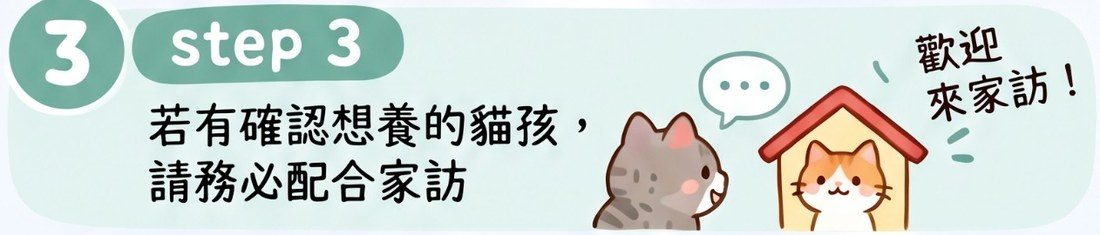
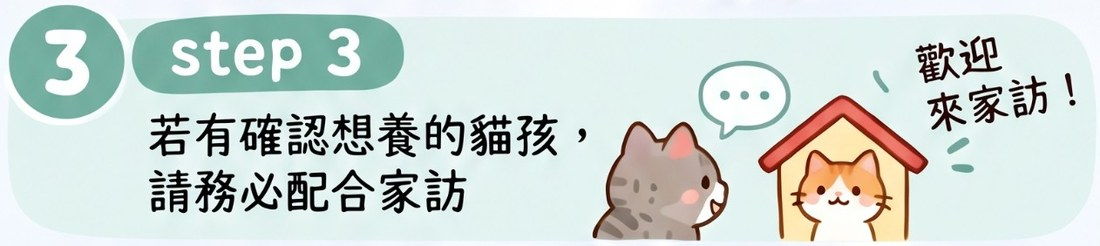
切圖改為自動量測圓圈突出幅度
數字圓圈刻意畫得比卡片高、突出到卡片外，各條突出 6~16px 不等，
照卡片邊界切會削到圓圈的頭。

新增 tools/切設計稿.py：右側掃描找間隙取得大致範圍，再從左側
量出內容實際延伸到哪裡，自動決定留邊。並限制不可越過上一條的
底部，且不往下找（圓圈只突出上緣）。

diff --git a/adopt.html b/adopt.html
@@ -64,11 +64,11 @@
     <!-- 五個步驟用設計稿的原圖。圖裡的文字搜尋引擎讀不到，所以寫進 alt。
          要改文字就得重做圖，設計稿原檔在「設計稿/認養流程_設計稿_v2.jpg」。 -->
     <ol class="flow">
-      <li><img src="images/step-1.jpg?v=3d167d55" alt="step 1：私訊粉專，填寫諮詢表，讓我們簡單認識你" width="1100" height="207"></li>
-      <li><img src="images/step-2.jpg?v=cc1233d3" alt="step 2：確認收到粉專回覆後，方可預約賞貓時間" width="1100" height="222" loading="lazy"></li>
-      <li><img src="images/step-3.jpg?v=11edbe35" alt="step 3：若有確認想養的貓孩，請務必配合家訪" width="1100" height="235" loading="lazy"></li>
-      <li><img src="images/step-4.jpg?v=52ea1491" alt="step 4：確認認養環境無虞後，預約帶回貓孩的時間" width="1100" height="202" loading="lazy"></li>
-      <li><img src="images/step-5.jpg?v=ad0eb322" alt="step 5：帶貓當天請攜帶身份證並加入認養夥伴群組" width="1100" height="207" loading="lazy"></li>
+      <li><img src="images/step-1.jpg?v=eeb34be9" alt="step 1：私訊粉專，填寫諮詢表，讓我們簡單認識你" width="1100" height="218"></li>
+      <li><img src="images/step-2.jpg?v=932da8f2" alt="step 2：確認收到粉專回覆後，方可預約賞貓時間" width="1100" height="236" loading="lazy"></li>
+      <li><img src="images/step-3.jpg?v=3b18b026" alt="step 3：若有確認想養的貓孩，請務必配合家訪" width="1100" height="246" loading="lazy"></li>
+      <li><img src="images/step-4.jpg?v=cd7ef381" alt="step 4：確認認養環境無虞後，預約帶回貓孩的時間" width="1100" height="211" loading="lazy"></li>
+      <li><img src="images/step-5.jpg?v=f8b22834" alt="step 5：帶貓當天請攜帶身份證並加入認養夥伴群組" width="1100" height="208" loading="lazy"></li>
     </ol>
 
     <p class="flow-foot"><span aria-hidden="true">🐾</span> 每一隻貓咪，都值得被愛 <span aria-hidden="true">🐾</span></p>

diff --git a/tools/切設計稿.py b/tools/切設計稿.py
@@ -1,0 +1,127 @@
+# -*- coding: utf-8 -*-
+"""
+把長條設計稿自動切成一條一條的橫幅。
+
+為什麼不能直接「找空白橫線來切」：
+    設計稿的數字圓圈、標題膠囊，是刻意畫得比卡片高、突出到卡片外的。
+    照卡片邊界切，圓圈的頭就會被削掉；
+    固定多留一點又不知道該留多少——每一條突出的幅度還不一樣
+    （這張圖是 6 到 16 像素不等）。
+
+這支工具分兩步，所以不用猜：
+    1. 先在圖片右側掃描找出卡片之間的「間隙」，得到每條的大致範圍。
+       右側只有底色和手寫小字，最乾淨，不會被突出的圓圈干擾。
+    2. 再從左側（數字圓圈那一區）往上下找，看這一條的內容實際延伸到哪裡，
+       自動決定要留多少邊。
+
+    換一張設計稿也能直接用，不必重新調參數。
+
+怎麼跑（在專案資料夾開終端機）：
+    python tools/切設計稿.py "設計稿/認養流程_設計稿_v3.jpg" step
+
+    第一個參數：設計稿檔案
+    第二個參數：輸出檔名開頭（會產生 step-1.jpg、step-2.jpg… 放進 images/）
+    第三個參數（可省略）：要跳過開頭幾條。
+        長圖最上面通常是標題區，不是步驟，填 1 就會跳過它。
+
+跑完記得接著跑：
+    python tools/更新版本號.py
+"""
+import os
+import sys
+
+ROOT = os.path.dirname(os.path.dirname(os.path.abspath(__file__)))
+OUT_DIR = os.path.join(ROOT, "images")
+
+MIN_BAND_HEIGHT = 150     # 一條橫幅至少這麼高
+MIN_GAP_ROWS = 15         # 間隙至少這麼寬；更窄的是壓縮雜訊，不算
+OUT_WIDTH = 1100          # 輸出寬度
+
+
+def main(src, prefix, skip=0):
+    import numpy as np
+    from PIL import Image
+
+    im = Image.open(src).convert("RGB")
+    arr = np.asarray(im).astype(np.int16)
+    H, W = arr.shape[:2]
+
+    # 背景色要逐列算：設計稿底色常是漸層（上面偏白、下面偏藍），
+    # 用單一個背景色去比，中段的背景會被誤判成「有東西」。
+    # 左右邊緣一定是背景，拿那裡的中位數當這一列的背景色。
+    edge = np.concatenate([arr[:, 4:26], arr[:, W - 26:W - 4]], axis=1)
+    bg_rows = np.median(edge, axis=1)
+    diff = np.abs(arr - bg_rows[:, None, :]).sum(axis=2)
+    has_ink = diff > 20
+
+    # ---- 第一步：右側找間隙，得到大致範圍 ----
+    probe = has_ink[:, int(W * 0.86):int(W * 0.90)].sum(axis=1)
+    blank = probe < 1
+
+    gaps = []
+    y = 0
+    while y < H:
+        if blank[y]:
+            a = y
+            while y < H and blank[y]:
+                y += 1
+            if y - a >= MIN_GAP_ROWS:
+                gaps.append((a, y))
+        else:
+            y += 1
+
+    rough = [(gaps[i][1], gaps[i + 1][0]) for i in range(len(gaps) - 1)]
+    rough = [b for b in rough if b[1] - b[0] >= MIN_BAND_HEIGHT]
+    if not rough:
+        print("找不到橫幅，可能這張圖的版面不同，需要調整參數")
+        return
+    print("在右側找到 %d 條（大致範圍）" % len(rough))
+    if skip:
+        print("依指定跳過前 %d 條（通常是標題區，不是步驟）" % skip)
+        rough = rough[skip:]
+
+    # ---- 第二步：左側量出真正的上下界 ----
+    left = has_ink[:, int(W * 0.04):int(W * 0.22)].sum(axis=1)
+
+    bands = []
+    for idx, (top, bot) in enumerate(rough):
+        # 往上找時不可以越過上一條的底部，否則會帶到它的圓角
+        ceiling = rough[idx - 1][1] + 2 if idx > 0 else 0
+        t = top
+        while t > ceiling and t > top - 60:
+            if left[max(t - 2, 0):t + 2].sum() == 0:
+                break
+            t -= 1
+        # 下緣不用找：圓圈只突出卡片的上緣，往下找會吃到下一條的圓圈
+        b = min(bot + 3, H - 1)
+        bands.append((t, b, top, bot))
+
+    os.makedirs(OUT_DIR, exist_ok=True)
+    total = 0.0
+    sizes = []
+    print()
+    for i, (t, b, top, bot) in enumerate(bands, 1):
+        crop = im.crop((40, max(t - 3, 0), W - 40, min(b + 3, H)))
+        crop.thumbnail((OUT_WIDTH, 9999), Image.LANCZOS)
+        path = os.path.join(OUT_DIR, "%s-%d.jpg" % (prefix, i))
+        crop.save(path, "JPEG", quality=88, optimize=True, progressive=True)
+        kb = os.path.getsize(path) / 1024.0
+        total += kb
+        sizes.append((crop.width, crop.height))
+        print("  %s-%d.jpg  卡片 y=%d~%d　含突出 y=%d~%d（上面多留 %d px）  →  %dx%d  %.0f KB"
+              % (prefix, i, top, bot, t, b, top - t, crop.width, crop.height, kb))
+
+    print()
+    print("共 %d 條，合計 %.0f KB" % (len(bands), total))
+    print("HTML 要用的尺寸：", sizes)
+    print()
+    print("接著請跑：python tools/更新版本號.py")
+
+
+if __name__ == "__main__":
+    sys.stdout.reconfigure(encoding="utf-8", errors="replace")
+    if len(sys.argv) < 3:
+        print(__doc__)
+        sys.exit(1)
+    skip = int(sys.argv[3]) if len(sys.argv) > 3 else 0
+    main(sys.argv[1], sys.argv[2], skip)

diff --git a/踩過的坑.md b/踩過的坑.md
@@ -72,7 +72,26 @@ GitHub Pages 會告訴瀏覽器「這個 JS 檔可以暫存 10 分鐘」。
 
 **解法**：先把交界處的分數逐列印出來，找出真正的「谷底」在哪，再定閾值。
 
-### 2-5　幾列雜訊把一條切成兩半 ⭐ 最難找的一個
+### 2-5　數字圓圈突出卡片外，照卡片邊界切就會削到頭
+
+設計稿的數字圓圈是刻意畫得比卡片高、突出到卡片外面的，
+每一條突出的幅度還不一樣（這張圖是 6 到 16 像素不等）。
+照卡片邊界切，圓圈的頭就被削掉；固定多留一點，又不知道該留多少。
+
+**解法**：分兩步，就不用猜。
+
+1. 先在圖片**右側**掃描找間隙——右側只有底色和手寫小字，最乾淨，
+   不會被突出的圓圈干擾，可以得到每條的大致範圍
+2. 再從**左側**（數字圓圈那一區）往上找，看這一條的內容實際延伸到哪裡，
+   自動決定要留多少邊
+
+還要加兩個限制，不然會多切到東西：
+- 往上找時**不可越過上一條的底部**，否則會帶到它的圓角
+- **不要往下找**：圓圈只突出上緣，往下找反而會吃到下一條的圓圈
+
+工具是 `tools/切設計稿.py`，換一張設計稿也能直接用。
+
+### 2-6　幾列雜訊把一條切成兩半 ⭐ 最難找的一個
 
 偵測到的間隙裡混了幾個只有 4 列寬的「假間隙」（圖片壓縮造成的雜訊），
 其中一個剛好落在第一條中間，把它切成兩半，兩半都因為「太短」被過濾掉，
